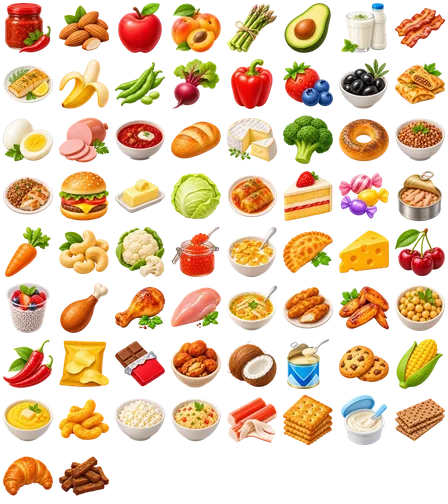
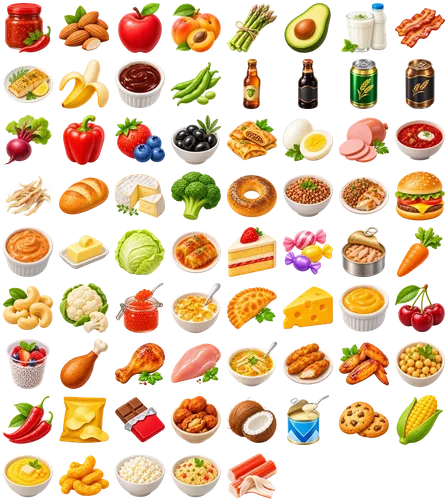
Expand product artwork and categories

diff --git a/app/web/static/js/pics.js b/app/web/static/js/pics.js
@@ -3,8 +3,20 @@ import { h } from './ui.js';
 import { t } from './i18n.js';
 
 // Порядок важен: сначала частные случаи («сырники» раньше «сыра»). Ключ = файл в img/food.
-const NOT_PROC = '^(?!.*(варень|джем|повидл|конфитюр|сок|сока|йогурт|пирог|торт|пирожн|мармелад|сироп|компот|сушен|вялен)).*';
+const NOT_PROC = '^(?!.*(варень|джем|повидл|конфитюр|сок|сока|йогурт|пирог|торт|пирожн|мармелад|сироп|компот|суш[её]н|вялен)).*';
 const NOT_DISH = '^(?!.*(салат|бутерброд|сэндвич|сендвич|суп|пирож|пирог|булочк|тост|ролл|завтрак|торт|шаурм)).*';
+const BEER = /\b(beer|lager|pilsner|stout|porter|ipa)\b|(^|[^а-яa-z])пив[оа](?![а-я])/;
+const BEER_CAN = /бан[коч]|ж\s*[./-]\s*б|жестян|\b(can|cans|canned|tin)\b/;
+const DARK_BEER = /темн|черн|стаут|портер|\b(dark|black|stout|porter)\b/;
+const beerType = (...patterns) => new RegExp(
+  '^(?!.*(?:для\\s+пива|вкус[а-я]*\\s+пива|for\\s+beer|beer[- ]flavou?r))'
+  + [BEER, ...patterns].map((pattern) => `(?=.*(?:${pattern.source}))`).join(''),
+);
+const DAIRY_DRINK = /(?:^|[^а-я])молочн[а-я]*[\s-]+(?:шоколадн[а-я]*\s+)?(?:напит|коктейл)|напит[а-я]*[\s-]+(?:ультрапастеризованн[а-я]*\s+)?молочн|\b(?:milk\s+drink|dairy\s+drink|milkshake)\b/;
+const COCOA = /какао|шоколад|\b(cocoa|chocolate)\b/;
+const CHOCOLATE_MILK = /(?:шоколадн[а-я]*\s+молок|молок[а-я]*\s+с\s+какао|\bchocolate\s+milk\b)/;
+const SAVUSHKIN = /савушкин(?:\s+продукт)?|savushkin/i;
+const SAVUSHKIN_COCOA = /^(?!.*(?:порош|сухо[йе]|powder))(?:напиток\s+)?(?:какао|cocoa)(?![а-яa-z])/;
 const YG_FLAVORS = {
   strawberry: 'клубни[кч]|земляни[кч]',
   peach: 'персик|абрикос',
@@ -35,6 +47,7 @@ const FOOD = [
   ['cornpuffs', /кукурузн[а-яё]*\s+палоч|палоч[а-яё]*\s+кукуруз|cheetos|читос|corn\s+puffs?/],
   ['chips', /чипс|\bchips\b|crisps|pringles|принглс|lays|lay['’]?s|лейс/],
   ['popcorn', /попкорн|popcorn/],
+  ['driedsquid', /(?=.*(кальмар|\bsquid\b))(?=.*(сушен|вялен|\bdried\b))/],
   // Составные блюда раньше картофеля, круп и мяса.
   ['draniki', /драник|дерун|draniki|potato\s+pancakes?/],
   ['chickenstrips', /стрипс|chicken\s+(strips?|tenders?)/],
@@ -45,6 +58,14 @@ const FOOD = [
   ['meatballs', /^(?!.*(суп|soup)).*(тефтел|фрикадел|meatballs?)/],
   // --- новые иконки (раньше общих правил, чтобы «борщ» не стал просто супом)
   ...flavoredYogurts,
+  ['driedapple', /(?=.*(яблок|яблочн|\bapples?\b))(?=.*(сушен|вялен|дегидратир|\bdried\b|\bdehydrated\b))/],
+  ['driedcranberry', /(?=.*(клюкв|\bcranberr(y|ies)\b))(?=.*(сушен|вялен|\bdried\b|\bdehydrated\b))/],
+  ['beercan_dark', beerType(BEER_CAN, DARK_BEER)],
+  ['beercan', beerType(BEER_CAN)],
+  ['beerbottle_dark', beerType(DARK_BEER)],
+  ['beerbottle', beerType()],
+  ['milkcocoa', new RegExp(`^(?=.*(?:${DAIRY_DRINK.source}))(?=.*(?:${COCOA.source}))|${CHOCOLATE_MILK.source}`)],
+  ['milkdrink', DAIRY_DRINK],
   ['borscht', /борщ/],
   ['shchi', /(^|[^а-яё])щи(?![а-яё])/],
   ['solyanka', /солянк/],
@@ -111,7 +132,7 @@ const FOOD = [
   ['peanut', /арахис(?!ов[а-яё]*\s+(паст|масл))|земляной\s+орех/],
   ['cashew', /кешью/],
   ['pistachio', /фисташк/],
-  ['raisins', /изюм|кишмиш/],
+  ['raisins', /изюм|кишмиш|\braisins?\b/],
   ['chickenleg', /куриная\s+(ножк|ляшк|голень|бедр)|(ножк|ляшк|голень|бедр)[а-яё]*\s+кур|окорочок|окорочк/],
   ['chickenwings', /крыл[ыьоя]|крылышк/],
   ['duck', /утк|утин|гус[ьяиь]|гусь/],
@@ -132,7 +153,7 @@ const FOOD = [
   ['granolabar', /мюсли[\s-]*батончик|злаков[а-яё]*\s+батончик|батончик[а-яё]*\s+(злаков|мюсли|овсян)|гранол[а-яё]*\s*бар|фруктов[а-яё]*\s+батончик/],
   ['energyballs', /энерги[а-яё]*\s+(шарик|конфет|шар)|конфет[а-яё]*\s+из\s+фиников|шарик[а-яё]*\s+из/],
   ['ricecakes', /рисов[а-яё]*\s+(хлебц|лепешк|галет|вафл)|хлебц[а-яё]*\s+рисов|воздушн[а-яё]*\s+рис/],
-  ['dates', /финик/],
+  ['dates', /финик|\bdates\b/],
   ['popcorn', /попкорн/],
   ['cereal', /кукуруз[а-яё]*\s+хлопь|хлопь[а-яё]*\s+кукуруз|готов[а-яё]*\s+завтрак|корнфлекс|cornflakes/],
   ['cabbagerolls', /голубц|голубец/],
@@ -184,6 +205,9 @@ const FOOD = [
   ['jamcurrant', /(варень|джем|повидл|конфитюр)[а-яё]*\s+(из\s+)?[а-яё]*?(смородин|черник|голубик|ежевик)|(смородин|черник|голубик|ежевик)[а-яё]*\s+(варень|джем|повидл|конфитюр)/],
   ['jamraspberry', /(варень|джем|повидл|конфитюр)[а-яё]*\s+(из\s+)?[а-яё]*?(малин)|малинов[а-яё]*\s+(варень|джем|повидл|конфитюр)/],
   ['jamstrawberry', /варень|джем(?![а-яё])|повидл|конфитюр|клубничн[а-яё]*\s+варен/],
+  ['burgersauce', /бургерн[а-я]*[\s-]+соус|бургер[\s-]+соус|соус[\s-]+(бургер|для\s+(гам)?бургер)|\b(hamburger|burger)\s+sauce\b/],
+  ['cheesesauce', /сырн[а-я]*[\s-]+соус|соус[\s-]+сырн|\b(cheese|cheddar)\s+(dip|sauce)\b/],
+  ['barbecuesauce', /соус[\s-]+(барбекю|ббк|bbq)|барбекю[\s-]+соус|\b(barbecue|barbeque|bbq)\s+sauce\b/],
   ['ketchup', /кетчуп|томатн[а-яё]*\s+(соус|паст)|паста\s+томат|соус\s+томат/],
   ['mayo', /майонез|провансаль/],
   ['lecho', /лечо|икра\s+кабачков|кабачков[а-яё]*\s+икра|консервирован[а-яё]*\s+овощ/],
@@ -196,7 +220,8 @@ const FOOD = [
   ['khinkali', /х[ие]нкал/],
   ['curdbar', /сырок|глаз[еи]ров|глазурь/],
   ['processedcheese', /плавлен|творожн[а-яё]*\s+сыр|сыр[а-яё]*\s+творожн|хохланд|дружба|янтарь|виола/],
-  ['smokedcheese', /к[оа]пч[а-яё]*\s+сыр|сыр[а-яё]*\s+к[оа]пч|сулугуни|косичк/],
+  ['braidedcheese', /косичк|чечил|\bbraided\s+cheese\b/],
+  ['smokedcheese', /к[оа]пч[а-яё]*\s+сыр|сыр[а-яё]*\s+к[оа]пч|сулугуни/],
   ['buckwheat', /гречк|гречнев|греча/],
   ['cottage', /творог|творожн|сырник/],
   ['sourcream', /сметан/],
@@ -250,6 +275,7 @@ const FOOD = [
   ['melon', /(^|[^а-яё])дын[яиюе](?![а-яё])/],
   ['watermelon', /арбуз/],
   ['strawberry', /клубник|земляник/],
+  ['driedfruit', /чернослив|кураг|сухофрукт|инжир|сушен[а-я]*\s+абрикос|абрикос[а-я]*\s+сушен|\b(?:dried\s+(?:fruits?|apricots?|figs?)|prunes?)\b/],
   ['peach', /персик|абрикос|нектарин/],
   ['pear', /(^|[^а-яё])груш/],
   ['kiwi', /киви/],
@@ -258,6 +284,7 @@ const FOOD = [
   ['plum', /(^|[^а-яё])слив[аыуе](?![а-яё])/],
   ['apple', /яблок|груш|слив[аы]|киви|манго|ананас|хурм|фрукт/],
   ['cherry', /(^|[^а-яё])(вишн|черешн)/],
+  ['cranberry', /^(?!.*(?:сок|морс|компот|сироп|йогурт|варень|джем|сушен|вялен|\b(?:juice|jam|dried)\b)).*(?:клюкв|\bcranberr(?:y|ies)\b)/],
   ['berries', /ягод|черник|малин|смородин|вишн|черешн|голубик|ежевик|клюкв/],
   ['avocado', /авокадо/],
   ['carrot', /морков/],
@@ -279,7 +306,6 @@ const FOOD = [
   ['tomato', /помидор|томат|кетчуп|перец болгар/],
   ['vegetables', /овощ|капуст|кабачк|баклажан|свёкл|свекл|редис|сельдерей|батат/],
   ['chips', /снек/],
-  ['driedfruit', /чернослив|кураг|изюм|финик|сухофрукт|инжир/],
   ['nuts', /орех|миндал|фундук|кешью|арахис|фисташк|семечк|семена|финик|изюм|чернослив/],
 ];
 
@@ -303,18 +329,20 @@ export const FOOD_ICONS = [...new Set(FOOD.map(([file]) => file))];
 
 // Группы для выбора иконки вручную. Всё, что не попало в группу, уйдёт в «Другое».
 const GROUPS = [
-  ['Молочное и яйца', ['milk', 'kefir', 'ayran', 'ryazhenka', 'drinkyogurt', 'drinkyogurt_strawberry', 'drinkyogurt_peach', 'drinkyogurt_blueberry', 'drinkyogurt_cherry', 'drinkyogurt_vanilla', 'drinkyogurt_plain', 'yogurt', 'yogurt_strawberry', 'yogurt_peach', 'yogurt_blueberry', 'yogurt_vanilla', 'yogurt_raspberry', 'yogurt_banana', 'sourcream', 'cottage', 'curdbar', 'cheese', 'smokedcheese', 'processedcheese', 'mozzarella', 'brie', 'feta', 'parmesan', 'butter', 'egg', 'boiledegg', 'softegg', 'friedegg', 'scrambled', 'poached', 'deviledegg', 'quailegg', 'icecream', 'omelette', 'syrniki', 'tofu']],
+  ['Молочное и яйца', ['milk', 'milkdrink', 'milkcocoa', 'kefir', 'ayran', 'ryazhenka', 'drinkyogurt', 'drinkyogurt_strawberry', 'drinkyogurt_peach', 'drinkyogurt_blueberry', 'drinkyogurt_cherry', 'drinkyogurt_vanilla', 'drinkyogurt_plain', 'yogurt', 'yogurt_strawberry', 'yogurt_peach', 'yogurt_blueberry', 'yogurt_vanilla', 'yogurt_raspberry', 'yogurt_banana', 'sourcream', 'cottage', 'curdbar', 'cheese', 'smokedcheese', 'braidedcheese', 'processedcheese', 'mozzarella', 'brie', 'feta', 'parmesan', 'butter', 'egg', 'boiledegg', 'softegg', 'friedegg', 'scrambled', 'poached', 'deviledegg', 'quailegg', 'icecream', 'omelette', 'syrniki', 'tofu']],
+  ['Пиво', ['beercan', 'beerbottle', 'beercan_dark', 'beerbottle_dark']],
   ['Мясо и колбасы', ['meat', 'steak', 'mince', 'cutlet', 'chicken', 'chickenmeat', 'turkey', 'sausage', 'smokedsausage', 'salo', 'bacon', 'ham', 'shashlik', 'goulash', 'boiledsausage', 'pate', 'chickenleg', 'chickenwings', 'duck', 'liver', 'lambchop', 'ribs']],
   ['Рыба и морепродукты', ['fish', 'salmon', 'herring', 'herringjar', 'shrimp', 'canfish', 'forshmak', 'caviar', 'bakedfish']],
   ['Крупы и паста', ['rice', 'buckwheat', 'oatmeal', 'pasta', 'beans', 'peas', 'noodles', 'semolina', 'millet', 'pearlbarley', 'cornporridge', 'couscous', 'quinoa']],
   ['Хлеб и выпечка', ['bread', 'ryebread', 'toast', 'croissant', 'pancakes', 'cookies', 'cake', 'crispbread', 'pirozhok', 'donut', 'waffles', 'muffin', 'eclair', 'bublik', 'gingerbread']],
   ['Овощи и грибы', ['tomato', 'cucumber', 'carrot', 'potato', 'onion', 'broccoli', 'pumpkin', 'corn', 'mushroom', 'avocado', 'vegetables', 'cabbage', 'zucchini', 'eggplant', 'beet', 'bellpepper', 'radish', 'garlic', 'greens', 'asparagus', 'chili']],
-  ['Фрукты и ягоды', ['apple', 'banana', 'orange', 'lemon', 'grapes', 'watermelon', 'strawberry', 'peach', 'berries', 'pear', 'kiwi', 'pineapple', 'mango', 'melon', 'cherry', 'plum', 'coconut', 'driedfruit', 'apricot', 'grapefruit', 'mandarin', 'fig', 'persimmon']],
+  ['Фрукты и ягоды', ['apple', 'banana', 'orange', 'lemon', 'grapes', 'watermelon', 'strawberry', 'peach', 'cranberry', 'berries', 'pear', 'kiwi', 'pineapple', 'mango', 'melon', 'cherry', 'plum', 'coconut', 'apricot', 'grapefruit', 'mandarin', 'fig', 'persimmon']],
+  ['Сухофрукты', ['driedapple', 'driedcranberry', 'driedfruit', 'raisins', 'dates']],
   ['Блюда и фастфуд', ['soup', 'salad', 'sandwich', 'burger', 'pizza', 'wrap', 'sushi', 'dumplings', 'khinkali', 'fries', 'hotdog', 'tacos', 'plov', 'khachapuri', 'borscht', 'shchi', 'solyanka', 'ukha', 'chickensoup', 'peasoup', 'mushroomsoup', 'olivier', 'vinaigrette', 'mashed', 'stuffedpepper', 'zapekanka', 'vareniki', 'manti', 'nuggets', 'instantnoodles', 'blinchiki', 'cheburek', 'lasagna', 'dolma', 'draniki', 'chickenstrips', 'potatowedges', 'cutletmashed', 'buckwheatchicken', 'pastameat', 'meatballs']],
-  ['Соусы и заготовки', ['ketchup', 'mayo', 'adjika', 'lecho', 'oil', 'pickledcucumber', 'pickledtomato', 'pickledpepper', 'pickledmushroom', 'sauerkraut', 'olives', 'blackolives', 'soysauce', 'mustard', 'salt', 'pepper', 'vinegar', 'pesto']],
+  ['Соусы и заготовки', ['ketchup', 'mayo', 'burgersauce', 'cheesesauce', 'barbecuesauce', 'adjika', 'lecho', 'oil', 'pickledcucumber', 'pickledtomato', 'pickledpepper', 'pickledmushroom', 'sauerkraut', 'olives', 'blackolives', 'soysauce', 'mustard', 'salt', 'pepper', 'vinegar', 'pesto']],
   ['Сладкое', ['chocolate', 'candy', 'honey', 'jamstrawberry', 'jamraspberry', 'jamcherry', 'jamapricot', 'jamcurrant', 'protein', 'peanutbutter', 'sugar', 'zefir', 'pastila', 'marmalade', 'halva', 'turkishdelight', 'condensed']],
-  ['Снеки', ['chips', 'ridgedchips', 'nachos', 'croutons', 'crackers', 'pretzelsticks', 'coatedpeanuts', 'onionrings', 'cornpuffs', 'popcorn']],
-  ['Орехи и семечки', ['nuts', 'seeds', 'almond', 'walnut', 'peanut', 'cashew', 'pistachio', 'raisins']],
+  ['Снеки', ['chips', 'ridgedchips', 'nachos', 'croutons', 'crackers', 'pretzelsticks', 'coatedpeanuts', 'onionrings', 'cornpuffs', 'popcorn', 'driedsquid']],
+  ['Орехи и семечки', ['nuts', 'seeds', 'almond', 'walnut', 'peanut', 'cashew', 'pistachio']],
 ];
 export const FOOD_GROUPS = (() => {
   const used = new Set(GROUPS.flatMap(([, ks]) => ks));
@@ -323,24 +351,30 @@ export const FOOD_GROUPS = (() => {
 })();
 
 // Ключи групп остаются русскими (это идентификаторы чипов); человеку показываем groupLabel(ключ).
-const GROUP_KEYS = { 'Молочное и яйца': 'dairy', 'Мясо и колбасы': 'meat', 'Рыба и морепродукты': 'fish', 'Крупы и паста': 'grains', 'Хлеб и выпечка': 'bakery',
-  'Овощи и грибы': 'veg', 'Фрукты и ягоды': 'fruit', 'Блюда и фастфуд': 'dishes', 'Соусы и заготовки': 'sauces', 'Сладкое': 'sweets', 'Орехи и семечки': 'nuts', 'Снеки': 'snacks', 'Другое': 'other' };
+const GROUP_KEYS = { 'Пиво': 'beer', 'Молочное и яйца': 'dairy', 'Мясо и колбасы': 'meat', 'Рыба и морепродукты': 'fish', 'Крупы и паста': 'grains', 'Хлеб и выпечка': 'bakery',
+  'Овощи и грибы': 'veg', 'Фрукты и ягоды': 'fruit', 'Сухофрукты': 'dried_fruit', 'Блюда и фастфуд': 'dishes', 'Соусы и заготовки': 'sauces', 'Сладкое': 'sweets', 'Орехи и семечки': 'nuts', 'Снеки': 'snacks', 'Другое': 'other' };
 export const groupLabel = (g) => (GROUP_KEYS[g] ? t('grp.' + GROUP_KEYS[g]) : g);
 
-export function foodGroupOf(name, icon = null) {
-  const k = FOOD_ICONS.includes(icon) ? icon : foodPicName(name);
+export function foodGroupOf(name, icon = null, brand = '') {
+  const k = foodPicKey(name, icon, brand);
   const g = FOOD_GROUPS.find(([, ks]) => ks.includes(k));
   return g ? g[0] : 'Другое';
 }
 
-const SNACK_ICONS = new Set(['chips', 'ridgedchips', 'nachos', 'croutons', 'crackers', 'pretzelsticks', 'coatedpeanuts', 'onionrings', 'cornpuffs', 'popcorn']);
+const SNACK_ICONS = new Set(['chips', 'ridgedchips', 'nachos', 'croutons', 'crackers', 'pretzelsticks', 'coatedpeanuts', 'onionrings', 'cornpuffs', 'popcorn', 'driedsquid']);
 const SNACK_IN_DISH = /салат|суп|пицц|бутерброд|сэндвич|сендвич|salad|soup|pizza|sandwich/;
+const SAUCE_ICONS = new Set(['burgersauce', 'cheesesauce', 'barbecuesauce']);
+const SAUCE_ON_DISH = /(?:бургер|пицц|макарон|паст[аыу]|сэндвич)[а-я]*\s+(?:с|под)\s+|\b(?:burger|pizza|pasta|sandwich)\s+with\b/;
 
-export function foodPicName(name) {
-  const t = String(name || '').toLowerCase().replace(/ё/g, 'е');
+export function foodPicName(name, brand = '') {
+  const original = String(name || '').toLowerCase();
+  const t = original.replace(/ё/g, 'е');
+  if ((SAVUSHKIN.test(t) || SAVUSHKIN.test(brand))
+      && SAVUSHKIN_COCOA.test(t.replace(SAVUSHKIN, '').replace(/^[\s«»"'(),-]+/, ''))) return 'milkcocoa';
   for (const [file, re] of FOOD) {
     if (SNACK_ICONS.has(file) && SNACK_IN_DISH.test(t)) continue;
-    if (re.test(t) || re.test(String(name || '').toLowerCase())) return file;
+    if (SAUCE_ICONS.has(file) && SAUCE_ON_DISH.test(t)) continue;
+    if (re.test(t) || re.test(original)) return file;
   }
   for (const [file, re] of FOOD_EN) if (re.test(t)) return file;
   return null;
@@ -363,12 +397,12 @@ function pic(path, size) {
 }
 
 // null, если подходящей картинки нет: вызывающий код рисует обычную плитку.
-export function foodPicKey(name, icon) {
-  return FOOD_ICONS.includes(icon) ? icon : foodPicName(name);
+export function foodPicKey(name, icon, brand = '') {
+  return FOOD_ICONS.includes(icon) ? icon : foodPicName(name, brand);
 }
 
-export function foodPic(name, size = 40, icon = null) {
-  const f = foodPicKey(name, icon);
+export function foodPic(name, size = 40, icon = null, brand = '') {
+  const f = foodPicKey(name, icon, brand);
   return f ? pic(`img/food/${f}.webp`, size) : null;
 }
 

diff --git a/app/web/static/js/food_atlas.js b/app/web/static/js/food_atlas.js
@@ -1,8 +1,8 @@
 // Generated by tools/build_food_atlas.py.
 export const COLUMNS = 8;
 export const TILES = [
-  {"asset": "img/food-atlas-1.webp", "rows": 9, "keys": ["adjika", "almond", "apple", "apricot", "asparagus", "avocado", "ayran", "bacon", "bakedfish", "banana", "beans", "beet", "bellpepper", "berries", "blackolives", "blinchiki", "boiledegg", "boiledsausage", "borscht", "bread", "brie", "broccoli", "bublik", "buckwheat", "buckwheatchicken", "burger", "butter", "cabbage", "cabbagerolls", "cake", "candy", "canfish", "carrot", "cashew", "cauliflower", "caviar", "cereal", "cheburek", "cheese", "cherry", "chia", "chicken", "chickenleg", "chickenmeat", "chickensoup", "chickenstrips", "chickenwings", "chickpeas", "chili", "chips", "chocolate", "coatedpeanuts", "coconut", "condensed", "cookies", "corn", "cornporridge", "cornpuffs", "cottage", "couscous", "crabsticks", "crackers", "creamcheese", "crispbread", "croissant", "croutons"]},
-  {"asset": "img/food-atlas-2.webp", "rows": 9, "keys": ["cucumber", "curdbar", "curdbrick", "curdgrain", "curdjar", "curdmass", "curdsoft", "cutlet", "cutletmashed", "dates", "deviledegg", "dolma", "donut", "draniki", "driedfruit", "drinkyogurt", "drinkyogurt_blueberry", "drinkyogurt_cherry", "drinkyogurt_peach", "drinkyogurt_plain", "drinkyogurt_strawberry", "drinkyogurt_vanilla", "duck", "dumplings", "eclair", "egg", "eggplant", "energyballs", "feta", "fig", "fish", "forshmak", "friedegg", "fries", "garlic", "gingerbread", "goulash", "granolabar", "grapefruit", "grapes", "greens", "halva", "ham", "herring", "herringjar", "honey", "hotdog", "hummus", "icecream", "instantnoodles", "jamapricot", "jamcherry", "jamcurrant", "jamraspberry", "jamstrawberry", "kefir", "ketchup", "khachapuri", "khinkali", "kiwi", "lambchop", "lasagna", "lecho", "lemon", "lentils", "liver"]},
-  {"asset": "img/food-atlas-3.webp", "rows": 9, "keys": ["mandarin", "mango", "manti", "marmalade", "mashed", "mayo", "meat", "meatballs", "melon", "milk", "millet", "mince", "mozzarella", "muffin", "mushroom", "mushroomsoup", "mustard", "nachos", "noodles", "nuggets", "nuts", "oatmeal", "oil", "olives", "olivier", "omelette", "onion", "onionrings", "orange", "pancakes", "parmesan", "pasta", "pastameat", "pastila", "pate", "peach", "peanut", "peanutbutter", "pear", "pearlbarley", "peas", "peasoup", "pepper", "persimmon", "pesto", "pickledcucumber", "pickledmushroom", "pickledpepper", "pickledtomato", "pineapple", "pirozhok", "pistachio", "pizza", "plov", "plum", "poached", "pomegranate", "popcorn", "potato", "potatowedges", "pretzelsticks", "processedcheese", "protein", "proteinbar", "proteincookie", "proteinpudding"]},
-  {"asset": "img/food-atlas-4.webp", "rows": 8, "keys": ["pumpkin", "quailegg", "quinoa", "radish", "raisins", "ribs", "rice", "ricecakes", "ridgedchips", "ryazhenka", "ryebread", "salad", "salmon", "salo", "salt", "sandwich", "sauerkraut", "sausage", "scrambled", "seeds", "semolina", "shashlik", "shchi", "shrimp", "smokedcheese", "smokedsausage", "softegg", "solyanka", "soup", "sourcream", "soysauce", "steak", "strawberry", "stuffedpepper", "sugar", "sushi", "sweetpotato", "syrniki", "tacos", "toast", "tofu", "tomato", "turkey", "turkishdelight", "ukha", "vareniki", "vegetables", "vinaigrette", "vinegar", "waffles", "walnut", "watermelon", "wrap", "yogurt", "yogurt_banana", "yogurt_blueberry", "yogurt_peach", "yogurt_raspberry", "yogurt_strawberry", "yogurt_vanilla", "zapekanka", "zefir", "zucchini"]},
+  {"asset": "img/food-atlas-1.webp", "rows": 9, "keys": ["adjika", "almond", "apple", "apricot", "asparagus", "avocado", "ayran", "bacon", "bakedfish", "banana", "barbecuesauce", "beans", "beerbottle", "beerbottle_dark", "beercan", "beercan_dark", "beet", "bellpepper", "berries", "blackolives", "blinchiki", "boiledegg", "boiledsausage", "borscht", "braidedcheese", "bread", "brie", "broccoli", "bublik", "buckwheat", "buckwheatchicken", "burger", "burgersauce", "butter", "cabbage", "cabbagerolls", "cake", "candy", "canfish", "carrot", "cashew", "cauliflower", "caviar", "cereal", "cheburek", "cheese", "cheesesauce", "cherry", "chia", "chicken", "chickenleg", "chickenmeat", "chickensoup", "chickenstrips", "chickenwings", "chickpeas", "chili", "chips", "chocolate", "coatedpeanuts", "coconut", "condensed", "cookies", "corn", "cornporridge", "cornpuffs", "cottage", "couscous", "crabsticks"]},
+  {"asset": "img/food-atlas-2.webp", "rows": 9, "keys": ["crackers", "cranberry", "creamcheese", "crispbread", "croissant", "croutons", "cucumber", "curdbar", "curdbrick", "curdgrain", "curdjar", "curdmass", "curdsoft", "cutlet", "cutletmashed", "dates", "deviledegg", "dolma", "donut", "draniki", "driedapple", "driedcranberry", "driedfruit", "driedsquid", "drinkyogurt", "drinkyogurt_blueberry", "drinkyogurt_cherry", "drinkyogurt_peach", "drinkyogurt_plain", "drinkyogurt_strawberry", "drinkyogurt_vanilla", "duck", "dumplings", "eclair", "egg", "eggplant", "energyballs", "feta", "fig", "fish", "forshmak", "friedegg", "fries", "garlic", "gingerbread", "goulash", "granolabar", "grapefruit", "grapes", "greens", "halva", "ham", "herring", "herringjar", "honey", "hotdog", "hummus", "icecream", "instantnoodles", "jamapricot", "jamcherry", "jamcurrant", "jamraspberry", "jamstrawberry", "kefir", "ketchup", "khachapuri", "khinkali", "kiwi"]},
+  {"asset": "img/food-atlas-3.webp", "rows": 9, "keys": ["lambchop", "lasagna", "lecho", "lemon", "lentils", "liver", "mandarin", "mango", "manti", "marmalade", "mashed", "mayo", "meat", "meatballs", "melon", "milk", "milkcocoa", "milkdrink", "millet", "mince", "mozzarella", "muffin", "mushroom", "mushroomsoup", "mustard", "nachos", "noodles", "nuggets", "nuts", "oatmeal", "oil", "olives", "olivier", "omelette", "onion", "onionrings", "orange", "pancakes", "parmesan", "pasta", "pastameat", "pastila", "pate", "peach", "peanut", "peanutbutter", "pear", "pearlbarley", "peas", "peasoup", "pepper", "persimmon", "pesto", "pickledcucumber", "pickledmushroom", "pickledpepper", "pickledtomato", "pineapple", "pirozhok", "pistachio", "pizza", "plov", "plum", "poached", "pomegranate", "popcorn", "potato", "potatowedges", "pretzelsticks"]},
+  {"asset": "img/food-atlas-4.webp", "rows": 9, "keys": ["processedcheese", "protein", "proteinbar", "proteincookie", "proteinpudding", "pumpkin", "quailegg", "quinoa", "radish", "raisins", "ribs", "rice", "ricecakes", "ridgedchips", "ryazhenka", "ryebread", "salad", "salmon", "salo", "salt", "sandwich", "sauerkraut", "sausage", "scrambled", "seeds", "semolina", "shashlik", "shchi", "shrimp", "smokedcheese", "smokedsausage", "softegg", "solyanka", "soup", "sourcream", "soysauce", "steak", "strawberry", "stuffedpepper", "sugar", "sushi", "sweetpotato", "syrniki", "tacos", "toast", "tofu", "tomato", "turkey", "turkishdelight", "ukha", "vareniki", "vegetables", "vinaigrette", "vinegar", "waffles", "walnut", "watermelon", "wrap", "yogurt", "yogurt_banana", "yogurt_blueberry", "yogurt_peach", "yogurt_raspberry", "yogurt_strawberry", "yogurt_vanilla", "zapekanka", "zefir", "zucchini"]},
 ];

diff --git a/app/web/static/js/screens/product.js b/app/web/static/js/screens/product.js
@@ -21,14 +21,14 @@ export function productForm(p = {}) {
   let iconVal = FOOD_ICONS.includes(p.icon) ? p.icon : null;
   const iconPrev = h('button', { type: 'button', class: 'icon-prev', 'aria-haspopup': 'dialog', onclick: openIconPage });
   function paintIcon() {
-    iconPrev.replaceChildren(foodPic(name.value, 72, iconVal) || h('span', { class: 'pic', style: { width: '72px', height: '72px' } }, icon('package', 32)),
+    iconPrev.replaceChildren(foodPic(name.value, 72, iconVal, brand.value) || h('span', { class: 'pic', style: { width: '72px', height: '72px' } }, icon('package', 32)),
       h('span', { class: 'icon-prev-lbl' }, t('pf.change_icon')));
   }
   // Выбор иконки открывается отдельной страницей поверх формы: введённые поля не теряются.
   let closeIconPage = null;
   function openIconPage() {
     let openGroup = null;
-    const g0 = foodGroupOf(name.value, iconVal);
+    const g0 = foodGroupOf(name.value, iconVal, brand.value);
     if (g0 !== 'Другое') openGroup = g0;
     const body = h('div', { class: 'screen icon-page-body', role: 'radiogroup', 'aria-label': t('pf.icon') });
     const close = () => { page.remove(); document.removeEventListener('keydown', onKey); closeIconPage = null; };
@@ -60,6 +60,7 @@ export function productForm(p = {}) {
     document.body.append(page);
   }
   name.addEventListener('input', () => { if (!iconVal) paintIcon(); });
+  brand.addEventListener('input', () => { if (!iconVal) paintIcon(); });
   paintIcon();
   const el = h('div', { class: 'stack' },
     iconPrev,

diff --git a/app/web/static/js/screens/products.js b/app/web/static/js/screens/products.js
@@ -16,9 +16,9 @@ const ATLAS_INDEX = new Map(TILES.flatMap(({ asset, rows, keys }) => {
 const DRINKS = '\u0000drinks';   // служебный ключ чипа «Напитки» (каталог напитков, не свои продукты)
 
 function cataloguePic(product, useAtlas, observer) {
-  const key = useAtlas ? foodPicKey(product.name, product.icon) : null;
+  const key = useAtlas ? foodPicKey(product.name, product.icon, product.brand) : null;
   const cell = ATLAS_INDEX.get(key);
-  if (!cell) return foodPic(product.name, 48, product.icon);
+  if (!cell) return foodPic(product.name, 48, product.icon, product.brand);
   const { i, rows, url } = cell;
   const x = (i % COLUMNS) * 100 / (COLUMNS - 1);
   const y = Math.floor(i / COLUMNS) * 100 / Math.max(1, rows - 1);
@@ -142,7 +142,7 @@ export default async function render(root, ctx) {
     try {
       const { products } = await api.get('/products', { q });
       if (!ctx.alive() || cat === DRINKS || q !== search.value.trim()) return;
-      all = products.map((p) => ({ ...p, group: foodGroupOf(p.name, p.icon) }));
+      all = products.map((p) => ({ ...p, group: foodGroupOf(p.name, p.icon, p.brand) }));
       if (!products.length) {
         paint();
         list.replaceChildren(q ? emptyState('search', t('common.not_found'), t('common.try_other'))

diff --git a/app/web/static/js/i18n/ru.js b/app/web/static/js/i18n/ru.js
@@ -405,6 +405,7 @@ export default {
   "forms.act_saved": "Активность записана",
   // grp
   "grp.snacks": "Снеки",
+  "grp.beer": "Пиво",
   "grp.dairy": "Молочное и яйца",
   "grp.meat": "Мясо и колбасы",
   "grp.fish": "Рыба и морепродукты",
@@ -412,6 +413,7 @@ export default {
   "grp.bakery": "Хлеб и выпечка",
   "grp.veg": "Овощи и грибы",
   "grp.fruit": "Фрукты и ягоды",
+  "grp.dried_fruit": "Сухофрукты",
   "grp.dishes": "Блюда и фастфуд",
   "grp.sauces": "Соусы и заготовки",
   "grp.sweets": "Сладкое",

diff --git a/app/web/static/js/i18n/en.js b/app/web/static/js/i18n/en.js
@@ -405,6 +405,7 @@ export default {
   "forms.act_saved": "Activity saved",
   // grp
   "grp.snacks": "Snacks",
+  "grp.beer": "Beer",
   "grp.dairy": "Dairy & eggs",
   "grp.meat": "Meat & sausages",
   "grp.fish": "Fish & seafood",
@@ -412,6 +413,7 @@ export default {
   "grp.bakery": "Bread & baking",
   "grp.veg": "Vegetables & mushrooms",
   "grp.fruit": "Fruit & berries",
+  "grp.dried_fruit": "Dried fruit",
   "grp.dishes": "Meals & fast food",
   "grp.sauces": "Sauces & preserves",
   "grp.sweets": "Sweets",

diff --git a/tests/test_food_pics.py b/tests/test_food_pics.py
@@ -49,6 +49,42 @@ def test_food_card_matching_and_assets():
         'Сыр': 'cheese',
         'Арахис': 'peanut',
         'Картофель': 'potato',
+        'Майонез Провансаль': 'mayo',
+        'Бургер-соус майонезный': 'burgersauce',
+        'Соус для бургеров': 'burgersauce',
+        'Burger sauce': 'burgersauce',
+        'Соус сырный': 'cheesesauce',
+        'Соус барбекю': 'barbecuesauce',
+        'Пицца с соусом барбекю': 'pizza',
+        'Молочный напиток Савушкин Какао 2,5%': 'milkcocoa',
+        'Напиток ультрапастеризованный молочный с какао': 'milkcocoa',
+        'Савушкин какао': 'milkcocoa',
+        'Chocolate milk': 'milkcocoa',
+        'Молочный коктейль ванильный': 'milkdrink',
+        'Кисломолочный напиток «Снежок»': 'drinkyogurt',
+        'Какао-порошок': None,
+        'Пиво светлое в банке': 'beercan',
+        'Пиво тёмное ж/б': 'beercan_dark',
+        'Пиво светлое в стекле': 'beerbottle',
+        'Пиво безалкогольное': 'beerbottle',
+        'Тёмное пиво в бутылке': 'beerbottle_dark',
+        'Stout in a can': 'beercan_dark',
+        'Сухарики к пиву': 'croutons',
+        'Сушёные яблоки': 'driedapple',
+        'Яблоко сушеное': 'driedapple',
+        'Смесь сухофруктов': 'driedfruit',
+        'Сушёные абрикосы': 'driedfruit',
+        'Чернослив': 'driedfruit',
+        'Dried fruit mix': 'driedfruit',
+        'Сыр копчёный косичка': 'braidedcheese',
+        'Сыр чечил': 'braidedcheese',
+        'Копчёный сыр': 'smokedcheese',
+        'Клюква': 'cranberry',
+        'Frozen cranberries': 'cranberry',
+        'Клюква вяленая': 'driedcranberry',
+        'Кальмар сушёный полосками': 'driedsquid',
+        'Сушеные кольца кальмара': 'driedsquid',
+        'Dried squid': 'driedsquid',
     }
     script = r'''
 import fs from 'node:fs';
@@ -56,7 +92,7 @@ import { pathToFileURL } from 'node:url';
 globalThis.window = { addEventListener() {} };
 globalThis.location = { search: '', hostname: 'localhost', protocol: 'http:' };
 const url = pathToFileURL(process.argv[1]);
-const { foodPicName, FOOD_GROUPS: groups, FOOD_ICONS: keys } = await import(url);
+const { foodPicName, foodPicKey, foodGroupOf, FOOD_GROUPS: groups, FOOD_ICONS: keys } = await import(url);
 const { TILES } = await import(new URL('./food_atlas.js', url));
 const atlas = TILES.flatMap(tile => tile.keys);
 if (TILES.length !== 4 || new Set(atlas).size !== atlas.length) throw new Error('Invalid atlas partition');
@@ -68,12 +104,20 @@ for (const [name, expected] of Object.entries(cases)) {
   const actual = foodPicName(name);
   if (actual !== expected) throw new Error(`${name}: ${actual} != ${expected}`);
 }
+if (foodPicKey('Какао 2,5%', null, 'Савушкин продукт') !== 'milkcocoa') throw new Error('Missing brand match');
+if (foodPicKey('Какао-порошок', null, 'Савушкин') !== null) throw new Error('Powder matched as drink');
+if (foodPicKey('Пиво светлое', 'beercan_dark') !== 'beercan_dark') throw new Error('Manual icon lost');
+if (foodGroupOf('Пиво светлое') !== 'Пиво') throw new Error('Beer must have a product group');
+for (const name of ['Сушёные яблоки', 'Вяленая клюква', 'Сухофрукты', 'Изюм', 'Финики']) {
+  if (foodGroupOf(name) !== 'Сухофрукты') throw new Error(`Missing dried fruit group: ${name}`);
+}
+if (foodGroupOf('Копчёный сыр косичка') !== 'Молочное и яйца') throw new Error('Braided cheese must stay in dairy');
 for (const key of keys) if (!atlas.includes(key)) throw new Error('Missing sprite cell: ' + key);
 for (const key of keys) {
   if (!fs.existsSync(process.argv[3] + '/' + key + '.webp')) throw new Error('Missing asset: ' + key);
 }
 const snacks = groups.find(([name]) => name === 'Снеки')[1];
-for (const key of ['chips', 'ridgedchips', 'croutons', 'nachos', 'popcorn']) {
+for (const key of ['chips', 'ridgedchips', 'croutons', 'nachos', 'popcorn', 'driedsquid']) {
   if (!snacks.includes(key)) throw new Error('Missing snack: ' + key);
 }
 if (new Set(groups.flatMap(([, keys]) => keys)).size !== keys.length) throw new Error('Ungrouped icon');
